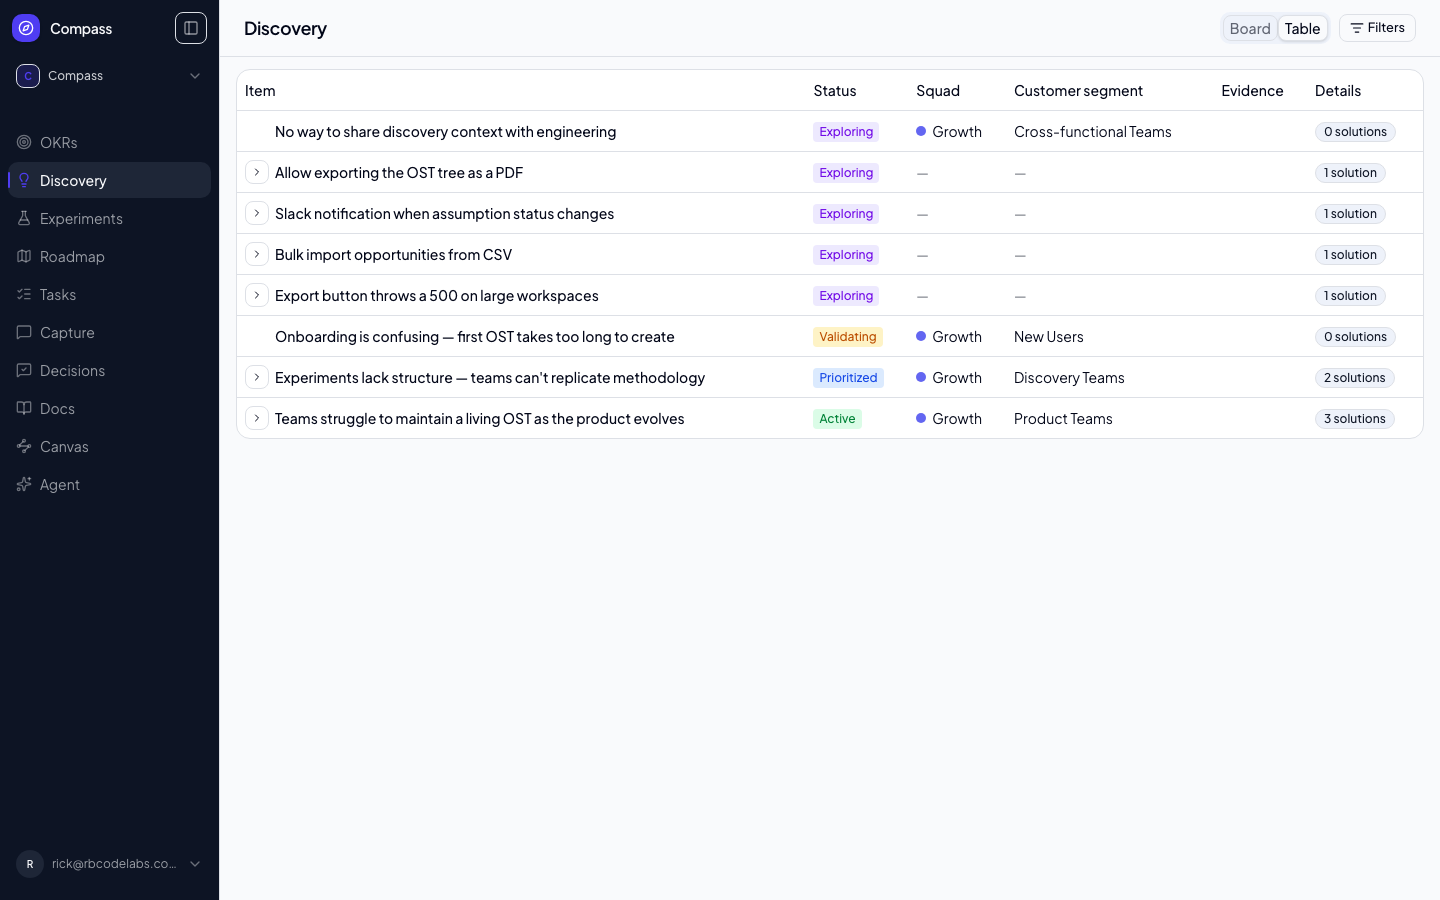
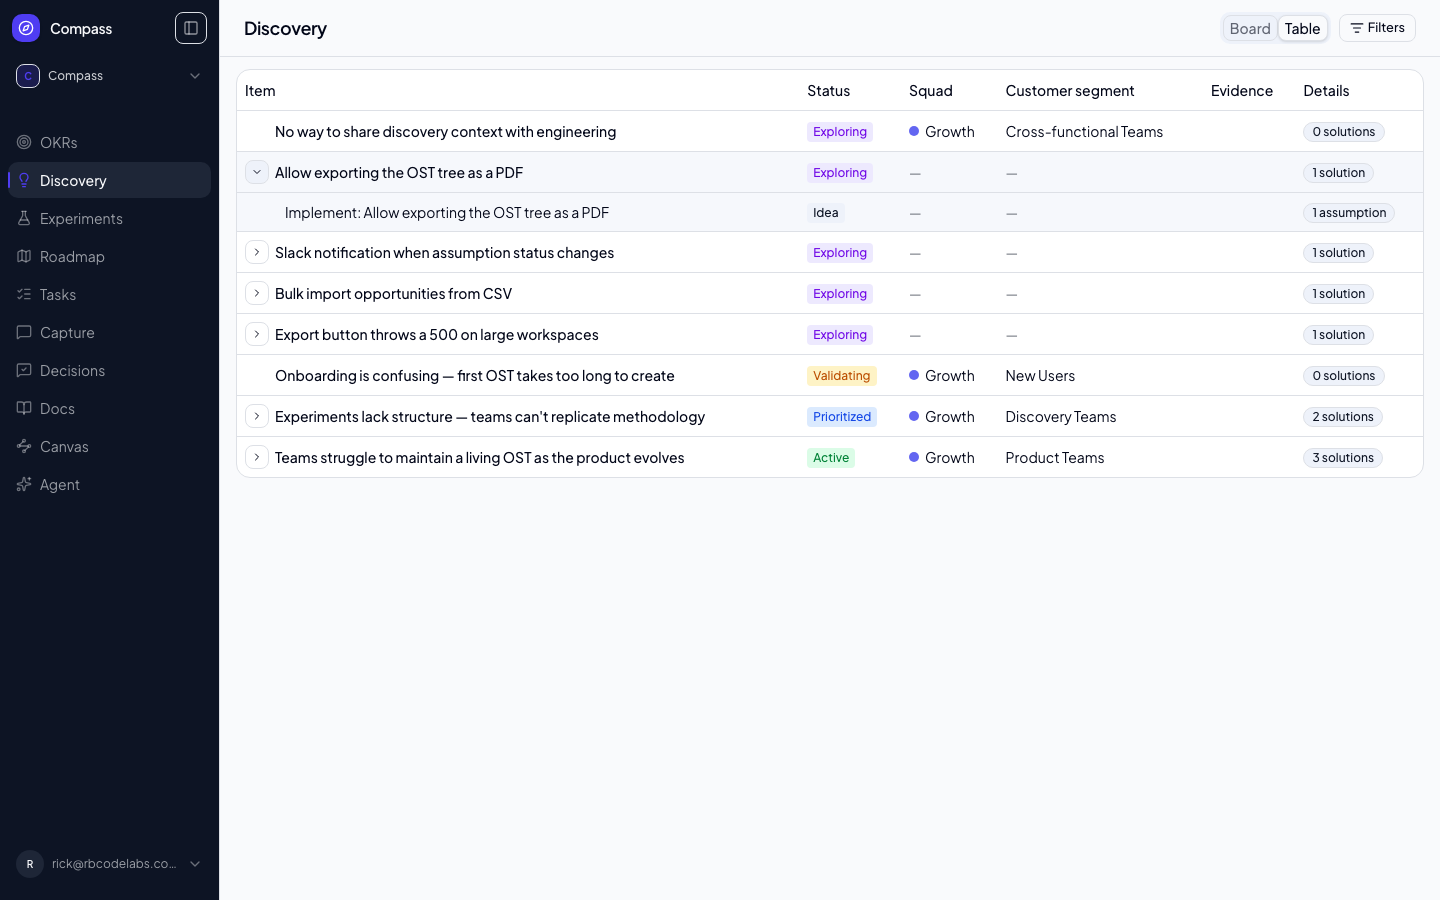
test: capture expanded discovery table

diff --git a/e2e/screenshots.spec.ts b/e2e/screenshots.spec.ts
@@ -1,4 +1,4 @@
-import { test } from "@playwright/test";
+import { expect, test } from "@playwright/test";
 import path from "path";
 import fs from "fs";
 import {
@@ -22,7 +22,12 @@ fs.mkdirSync(OUT, { recursive: true });
 const FUNCTIONAL = process.env.E2E_FUNCTIONAL === "1";
 const WORKSPACE_BASE = FUNCTIONAL ? "/e2e-test-org/e2e-workspace" : "/rbcodelabs/compass";
 
-type StandardScreenshotCase = { file: string; url: string; scrollToHeading?: string };
+type StandardScreenshotCase = {
+  file: string;
+  url: string;
+  scrollToHeading?: string;
+  prepare?: "expand-first-opportunity";
+};
 
 const STANDARD_PAGES: StandardScreenshotCase[] = [
   { file: "login.png",           url: "/login" },
@@ -30,7 +35,11 @@ const STANDARD_PAGES: StandardScreenshotCase[] = [
   { file: "okrs.png",            url: `${WORKSPACE_BASE}/okrs` },
   { file: "canvas.png",          url: `${WORKSPACE_BASE}/canvas` },
   { file: "discovery-board.png", url: `${WORKSPACE_BASE}/discovery` },
-  { file: "discovery-table.png", url: `${WORKSPACE_BASE}/discovery?view=table` },
+  {
+    file: "discovery-table.png",
+    url: `${WORKSPACE_BASE}/discovery?view=table`,
+    prepare: "expand-first-opportunity",
+  },
   { file: "roadmap.png",         url: `${WORKSPACE_BASE}/roadmap` },
   { file: "roadmap-timeline.png", url: `${WORKSPACE_BASE}/roadmap?view=timeline` },
   { file: "tasks.png",           url: `${WORKSPACE_BASE}/tasks` },
@@ -62,7 +71,23 @@ const GUIDED_PAGES = buildScreenshotCases({
 
 const PAGES: Array<StandardScreenshotCase | ScreenshotCase> = [...STANDARD_PAGES, ...GUIDED_PAGES];
 
-async function prepareGuidedScreenshot(page: import("@playwright/test").Page, entry: ScreenshotCase) {
+async function prepareScreenshot(
+  page: import("@playwright/test").Page,
+  entry: StandardScreenshotCase | ScreenshotCase,
+) {
+  if (!entry.prepare) return;
+
+  if (entry.prepare === "expand-first-opportunity") {
+    const disclosure = page
+      .getByRole("table", { name: "Discovery opportunities" })
+      .locator('button[aria-expanded]')
+      .first();
+    await expect(disclosure).toHaveAttribute("aria-expanded", "false");
+    await disclosure.click();
+    await expect(disclosure).toHaveAttribute("aria-expanded", "true");
+    return;
+  }
+
   if (entry.prepare === "guided-builder") {
     await page.getByRole("radio", { name: "Guided usability test" }).check();
     await page.getByLabel("Study name").fill("Plan selection usability test");
@@ -113,7 +138,7 @@ test.describe("docs screenshots", () => {
       if ("scrollToHeading" in entry && entry.scrollToHeading) {
         await page.getByRole("heading", { name: entry.scrollToHeading }).scrollIntoViewIfNeeded();
       }
-      if ("prepare" in entry) await prepareGuidedScreenshot(page, entry);
+      if ("prepare" in entry && entry.prepare) await prepareScreenshot(page, entry);
       // Give dynamic content a moment to settle
       await page.waitForTimeout(800);
       await page.screenshot({
